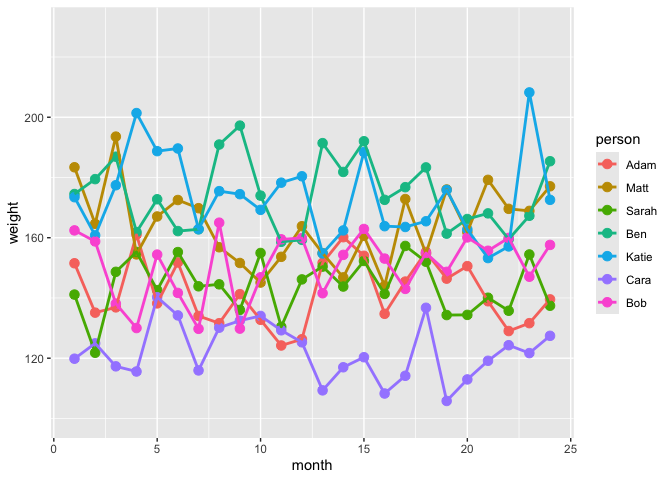
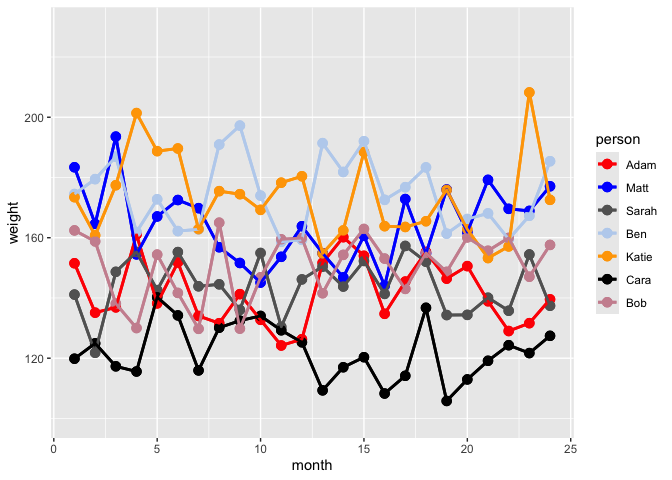
Removed strsplit stuff, updated test-cbPalette.R

diff --git a/README.md b/README.md
@@ -1,22 +1,15 @@
 
 <!-- README.md is generated from README.Rmd. Please edit that file -->
 
-**NOTE: The str_split_one is a toy package created for expository
-purposes, for the second edition of [R Packages](https://r-pkgs.org). It
-is not meant to actually be useful. If you want a package for factor
-handling, please see [stringr](https://stringr.tidyverse.org),
-[stringi](https://stringi.gagolewski.com/),
-[rex](https://cran.r-project.org/package=rex), and
-[rematch2](https://cran.r-project.org/package=rematch2).**
-
-# regexcite
+# cbPalette
 
 <!-- badges: start -->
 <!-- badges: end -->
 
-The goal of regexcite is to make regular expressions more exciting! It
-provides convenience functions to make some common tasks with string
-manipulation and regular expressions a bit easier.
+The goal of cbPalette is to make ggplot plots more readable for
+colorblind people. It provides functions to assist with geom_point(),
+geom_bar(), and other geom\_\* objects. The package replaces the default
+color map by using scale_color_cvi_d().
 
 ## Installation
 
@@ -25,58 +18,18 @@ You can install the development version of regexcite from
 
 ``` r
 # install.packages("devtools")
-devtools::install_github("jennybc/regexcite")
+devtools::install_github("hannahas/cbPalette")
 ```
 
 ## Usage
 
-A fairly common task when dealing with strings is the need to split a
-single string into many parts. This is what `base::strplit()` and
-`stringr::str_split()` do.
-
-``` r
-(x <- "alfa,bravo,charlie,delta")
-#> [1] "alfa,bravo,charlie,delta"
-strsplit(x, split = ",")
-#> [[1]]
-#> [1] "alfa"    "bravo"   "charlie" "delta"
-stringr::str_split(x, pattern = ",")
-#> [[1]]
-#> [1] "alfa"    "bravo"   "charlie" "delta"
-```
-
-Notice how the return value is a **list** of length one, where the first
-element holds the character vector of parts. Often the shape of this
-output is inconvenient, i.e. we want the un-listed version.
-
-That’s exactly what `regexcite::str_split_one()` does.
+First, we create a data set that shows the weights of seven different
+people as a function of month for 24 months. We give each person a name,
+and randomly assign the weight within a range 120-180. We add some noise
+to the data.
 
 ``` r
 library(cbPalette)
-
-str_split_one(x, pattern = ",")
-#> [1] "alfa"    "bravo"   "charlie" "delta"
-```
-
-Use `str_split_one()` when the input is known to be a single string. For
-safety, it will error if its input has length greater than one.
-
-`str_split_one()` is built on `stringr::str_split()`, so you can use its
-`n` argument and stringr’s general interface for describing the
-`pattern` to be matched.
-
-``` r
-str_split_one(x, pattern = ",", n = 2)
-#> [1] "alfa"                "bravo,charlie,delta"
-
-y <- "192.168.0.1"
-str_split_one(y, pattern = stringr::fixed("."))
-#> [1] "192" "168" "0"   "1"
-```
-
-Let’s test the cbPalette part
-
-``` r
 library(ggplot2)
 ######################## Make data frame for plot ######################
 # Set the seed for reproducibility
@@ -115,24 +68,43 @@ for (i in 1:nrow(df)) {
 # Convert 'person' column to a factor to make it categorical
 df$person <- factor(df$person)
 ######################## Make data frame for plot ######################
-
-######################## Make ggplot object ######################
-plt <- ggplot(df, mapping = aes(x = month, y = weight)) +
-scale_y_continuous(limits = c(100, 230))
-######################## Make ggplot object ######################
-
-######################## Example plot with default ggplot colors ######################
-normalPlot <- plt +
-  geom_point(aes(color = person), size = 3) +
-  geom_line(aes(color = person), linewidth = 1)
-print(normalPlot)
 ```
 
-<img src="man/figures/README-unnamed-chunk-5-1.png" width="100%" />
+Next, we create a ggplot object to show the weight as a function of
+month. We add geom_point() and geom_line() to the plot object, where the
+color of each is defined by the person. So each line with points
+represents one person, and is a unique color. At first, we don’t specify
+a color map, so it uses the default ggplot2 colors for seven categories.
+
+``` r
+######################## Make ggplot object ######################
+plt <- ggplot(df, mapping = aes(x = month, y = weight)) +
+  scale_y_continuous(limits = c(100, 230)) +
+  geom_point(aes(color = person), size = 3) +
+  geom_line(aes(color = person), linewidth = 1)
+######################## Make ggplot object ######################
+```
+
+Now we print the plot as is. As a colorblind person, I have great
+difficulty discerning these colors on the graph.
 
 ``` r
 ######################## Example plot with default ggplot colors ######################
+print(plt)
+```
 
+<img src="man/figures/README-unnamed-chunk-4-1.png" width="100%" />
+
+``` r
+######################## Example plot with default ggplot colors ######################
+```
+
+Now we create a different plot object from the orignal, adding a color
+scale from the cbPalette package. We specify scale_color_cvi_d(“cb7”),
+using our 7 category colorblind-friendly palette. With this map, I can
+much more easily discern the seven colors in the plot.
+
+``` r
 ######################## testing: call them in the same way we would with any scale_*() function in {ggplot2}
 cbPlot <- plt +
  geom_point(aes(colour = person), size = 3) +
@@ -141,7 +113,7 @@ cbPlot <- plt +
 print(cbPlot)
 ```
 
-<img src="man/figures/README-unnamed-chunk-5-2.png" width="100%" />
+<img src="man/figures/README-unnamed-chunk-5-1.png" width="100%" />
 
 ``` r
 ######################## testing: call them in the same way we would with any scale_*() function in {ggplot2}

diff --git a/NEWS.md b/NEWS.md
@@ -1,3 +1,7 @@
+# cbPalette 0.0.0.9000
+
+* Initial development version.
+
 # cbPalette (development version)
 
 * Initial CRAN submission.
